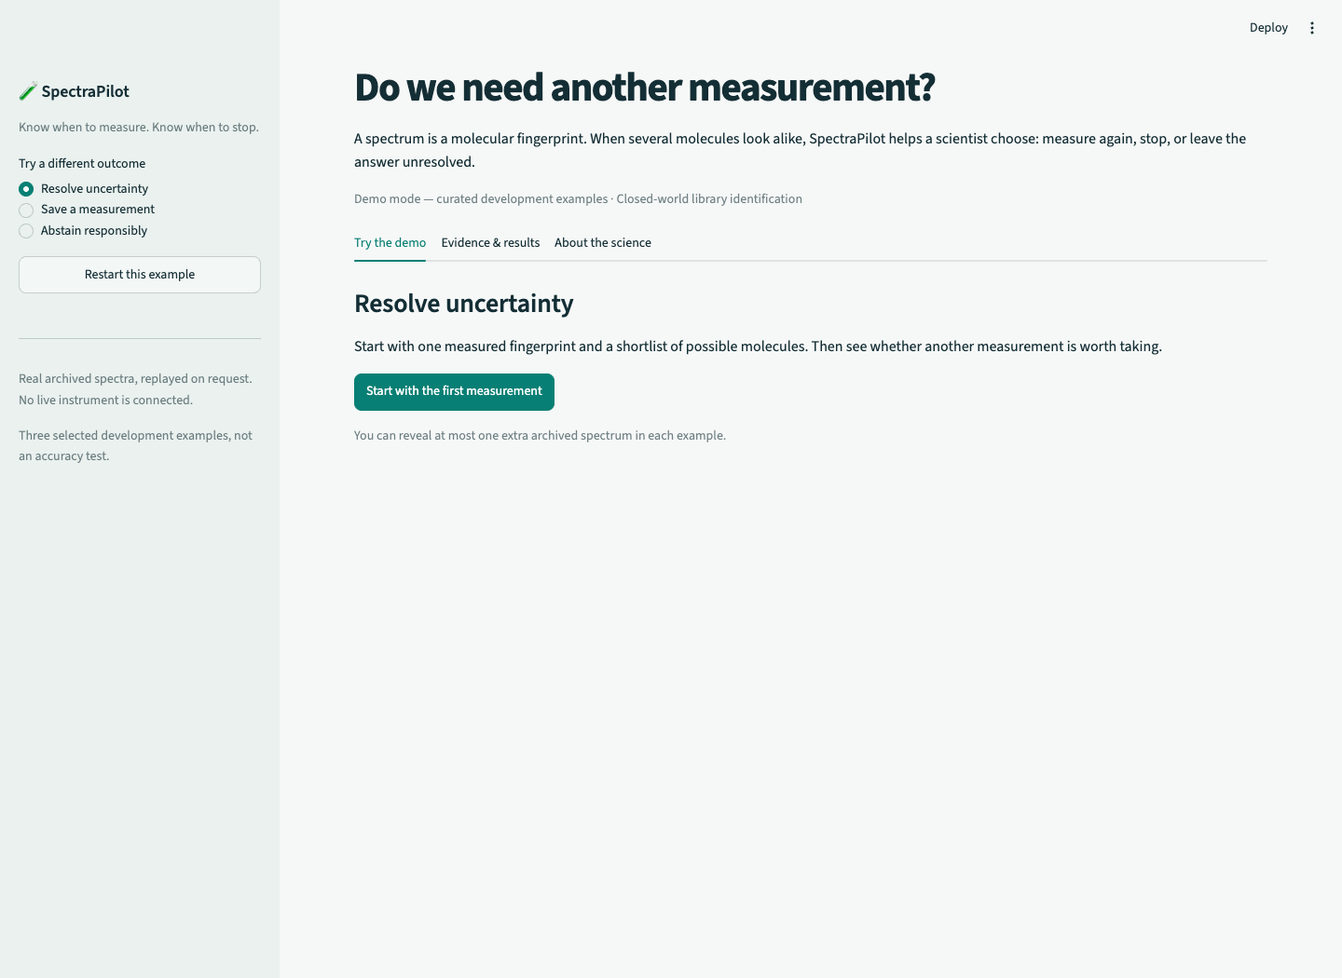
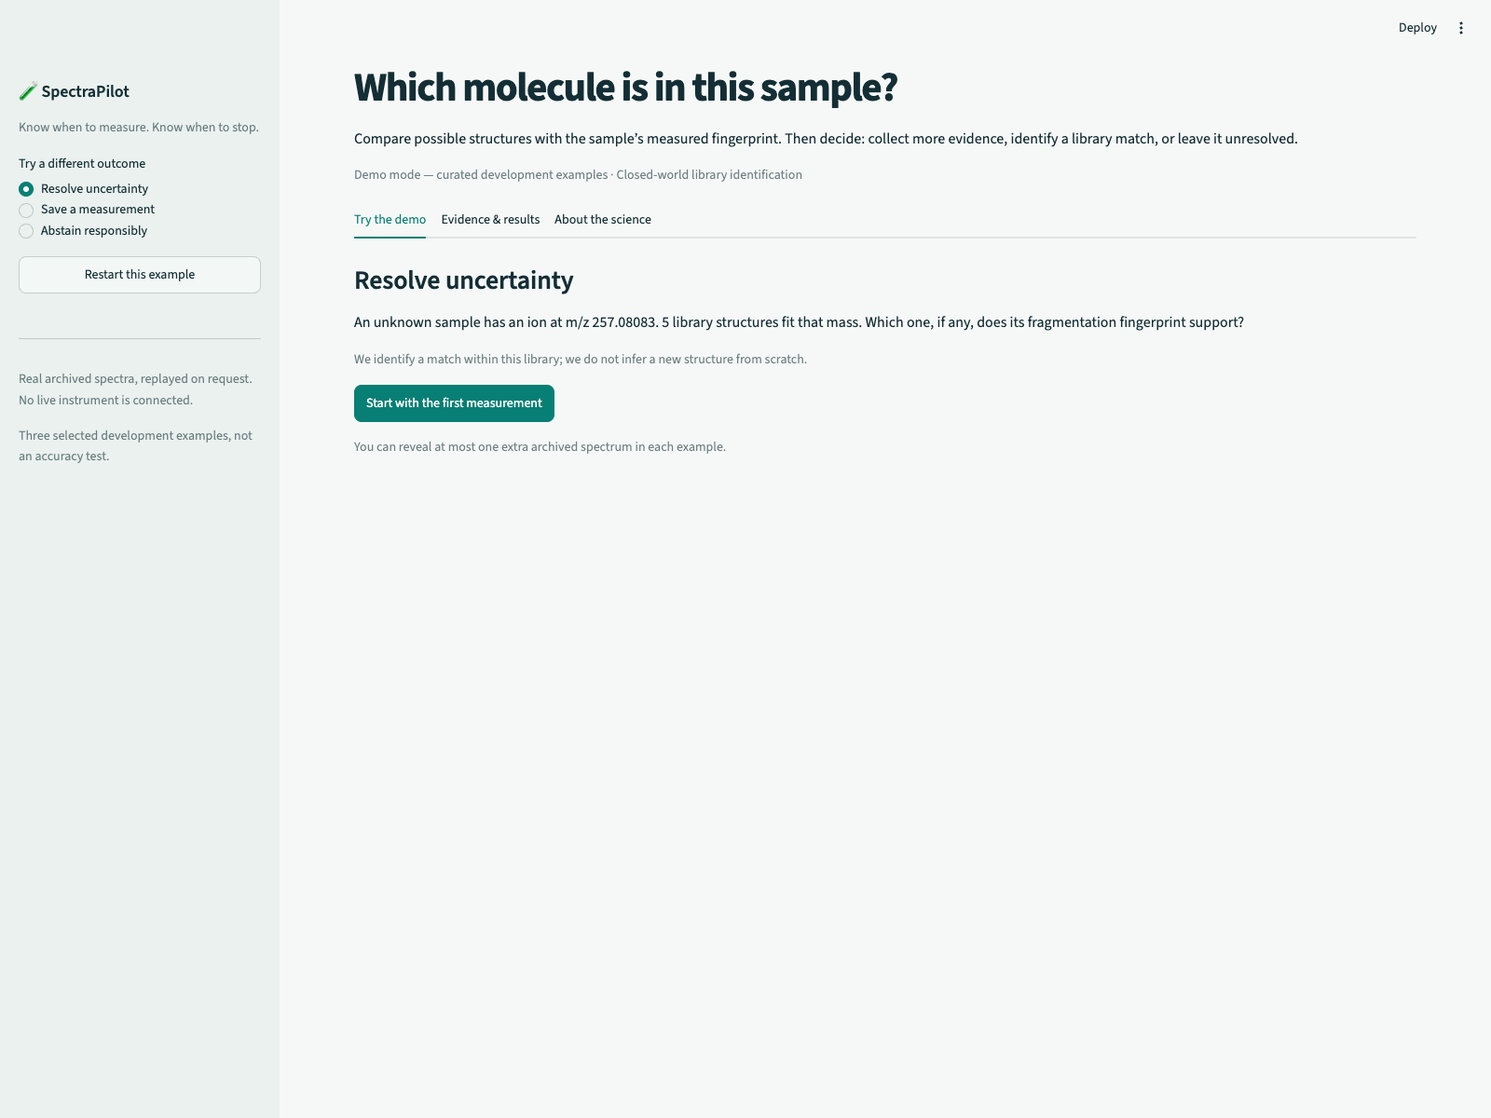
show named candidate structures and why their fingerprints fit

diff --git a/app/spectrapilot_demo.py b/app/spectrapilot_demo.py
@@ -5,10 +5,18 @@ from __future__ import annotations
 import json
 
 import pandas as pd
+from html import escape
+from pathlib import Path
+
 import plotly.graph_objects as go
+from plotly.subplots import make_subplots
 import streamlit as st
 
 from spectrapilot.demo import DemoService
+from spectrapilot.presentation import compare_observed_candidates
+
+ASSETS = Path(__file__).resolve().parent / "assets/structures"
+STRUCTURES = json.loads((ASSETS / "manifest.json").read_text())["candidates"]
 
 st.set_page_config(page_title="SpectraPilot · Measurement triage", page_icon="🧪", layout="wide")
 st.markdown(
@@ -43,6 +51,8 @@ def reset():
         "spectrum_action",
         "peak_index",
         "edit_action",
+        "compare_action",
+        "compare_other",
     ):
         st.session_state.pop(key, None)
 
@@ -64,6 +74,8 @@ def measure(case_id, action):
         f"Archived {action} measurement revealed",
     )
     st.session_state.spectrum_action = action
+    st.session_state.compare_action = action
+    st.session_state.pop("compare_other", None)
 
 
 def exclude(case_id, action, index, reason):
@@ -126,6 +138,84 @@ def spectrum_plot(observation, excluded):
     return figure
 
 
+def candidate_title(item, names):
+    label = names[item["candidate_id"]]
+    if item["name"] == item["candidate_id"]:
+        family = STRUCTURES[item["candidate_id"]].get("family", "Library structure")
+        return f"{family} · {label}"
+    return f"{item['name']} · {label}"
+
+
+def structure_gallery(candidates, names, leader):
+    for offset in range(0, len(candidates), 5):
+        group = candidates[offset : offset + 5]
+        for column, item in zip(st.columns(len(group)), group):
+            with column:
+                st.markdown(f"**{names[item['candidate_id']]}**")
+                info = STRUCTURES[item["candidate_id"]]
+                st.image(str(ASSETS / info["file"]), width="stretch")
+                title = candidate_title(item, names).split(" · ")[0]
+                st.markdown(
+                    f'<div style="font-size:13px;line-height:1.35;min-height:38px">{escape(title)}</div>',
+                    unsafe_allow_html=True,
+                )
+                if info.get("description"):
+                    st.caption(
+                        "OH groups: " + " + ".join(str(count) for count in info["ring_oh_counts"])
+                    )
+                if item["name"] == item["candidate_id"]:
+                    st.caption("No common name supplied.")
+                if item["candidate_id"] == leader:
+                    st.caption("↑ Leading fingerprint match")
+
+
+def fingerprint_comparison(data, names):
+    labels = [f"Sample — measured {data['action']}"]
+    for row in data["candidates"]:
+        source = (
+            "CID60 library proxy"
+            if row["reference_source"] == "reference_cid60"
+            else "predicted reference"
+        )
+        labels.append(f"{names[row['candidate_id']]} — {source}")
+    fig = make_subplots(
+        rows=3, cols=1, shared_xaxes=True, vertical_spacing=0.13, subplot_titles=labels
+    )
+    spectra = [(data["observed_mz"], data["observed_intensity"])] + [
+        (row["reference_mz"], row["reference_intensity"]) for row in data["candidates"]
+    ]
+    for index, ((mz, intensity), color) in enumerate(
+        zip(spectra, ["#163c46", "#087f74", "#b5752a"]), 1
+    ):
+        x, y = [], []
+        for mass, height in zip(mz, intensity):
+            x.extend([mass, mass, None])
+            y.extend([0, height, None])
+        fig.add_trace(
+            go.Scatter(
+                x=x,
+                y=y,
+                mode="lines",
+                line=dict(color=color, width=2),
+                hovertemplate="m/z %{x:.4f}<br>Relative intensity %{y:.2f}<extra></extra>",
+            ),
+            row=index,
+            col=1,
+        )
+    for mass, _ in data["strongest_fragments"]:
+        fig.add_vline(x=mass, line_color="#becdca", line_dash="dot", line_width=1)
+    fig.update_layout(
+        height=390,
+        showlegend=False,
+        margin=dict(l=15, r=15, t=35, b=30),
+        paper_bgcolor="#f6f8f7",
+        plot_bgcolor="white",
+    )
+    fig.update_yaxes(range=[0, 1.08], showticklabels=False, gridcolor="#eef3f1")
+    fig.update_xaxes(title_text="Fragment mass-to-charge (m/z)", row=3, col=1)
+    return fig
+
+
 pilot = service()
 examples = pilot.manifest["cases"]
 with st.sidebar:
@@ -144,10 +234,10 @@ with st.sidebar:
     st.caption("Real archived spectra, replayed on request. No live instrument is connected.")
     st.caption("Three selected development examples, not an accuracy test.")
 
-st.title("Do we need another measurement?")
+st.title("Which molecule is in this sample?")
 st.write(
-    "A spectrum is a molecular fingerprint. When several molecules look alike, "
-    "SpectraPilot helps a scientist choose: measure again, stop, or leave the answer unresolved."
+    "Compare possible structures with the sample’s measured fingerprint. "
+    "Then decide: collect more evidence, identify a library match, or leave it unresolved."
 )
 st.caption("Demo mode — curated development examples · Closed-world library identification")
 
@@ -157,9 +247,13 @@ investigation_tab, results_tab, scope_tab = st.tabs(
 with investigation_tab:
     if not st.session_state.get("active_case"):
         st.subheader(example["title"])
+        intro = pilot.case_summary(example["case_id"])
         st.write(
-            "Start with one measured fingerprint and a shortlist of possible molecules. "
-            "Then see whether another measurement is worth taking."
+            f"An unknown sample has an ion at m/z {intro['precursor_mz']:.5f}. "
+            f"{intro['n_candidates']} library structures fit that mass. Which one, if any, does its fragmentation fingerprint support?"
+        )
+        st.caption(
+            "We identify a match within this library; we do not infer a new structure from scratch."
         )
         st.button(
             "Start with the first measurement",
@@ -184,8 +278,32 @@ with investigation_tab:
             candidate: f"Candidate {chr(65 + index)}"
             for index, candidate in enumerate(sorted(item["candidate_id"] for item in candidates))
         }
-        lead = names[candidates[0]["candidate_id"]]
-        initial_lead = names[baseline_candidates[0]["candidate_id"]]
+        by_id = {item["candidate_id"]: item for item in candidates}
+        lead = candidate_title(candidates[0], names)
+        initial_lead = candidate_title(baseline_candidates[0], names)
+        formulas = sorted({item["formula"] for item in candidates})
+        st.markdown(
+            "**The question: which of these structures produced the sample’s fingerprint?**"
+        )
+        st.write(
+            f"The measured intact ion is at **m/z {case['precursor_mz']:.5f}**. "
+            f"All {case['n_candidates']} candidates fit its mass within 10 ppm. "
+            + (
+                f"They share formula **{formulas[0]}**, so mass alone cannot distinguish their atom arrangements."
+                if len(formulas) == 1
+                else "Mass alone does not choose among them."
+            )
+        )
+        stable_candidates = sorted(candidates, key=lambda item: item["candidate_id"])
+        structure_gallery(stable_candidates, names, candidates[0]["candidate_id"])
+        if all(
+            STRUCTURES[item["candidate_id"]].get("family") == "Trihydroxychalcone"
+            for item in candidates
+        ):
+            st.caption(
+                "Compare the red oxygen / OH groups: these structures differ in where those groups sit on the two rings. That structural difference is real; its fragmentation mechanism is not assigned here."
+            )
+        st.divider()
         initial_decision = st.session_state.baseline["decision_if_stopped"]
         enough = preview == "IDENTIFIED"
         measured_extra = len(observations) > 1
@@ -338,6 +456,75 @@ with investigation_tab:
                 key="download_md",
                 width="stretch",
             )
+
+        st.subheader("Why does a structure have evidence?")
+        st.write(
+            "We compare the measured fragment peaks with a reference fingerprint associated with each structure. "
+            "Matching peak masses and relative heights support a candidate; a shared mass alone is not proof."
+        )
+        first_id = candidates[0]["candidate_id"]
+        preferred_other = (
+            baseline_candidates[0]["candidate_id"]
+            if measured_extra
+            else candidates[1]["candidate_id"]
+        )
+        others = [item["candidate_id"] for item in candidates if item["candidate_id"] != first_id]
+        if preferred_other not in others:
+            preferred_other = others[0]
+        action = st.selectbox(
+            "Compare a measurement already collected",
+            list(observations),
+            index=len(observations) - 1,
+            key="compare_action",
+        )
+        other_id = st.selectbox(
+            "Compare the leading match with",
+            others,
+            index=others.index(preferred_other),
+            format_func=lambda cid: candidate_title(by_id[cid], names),
+            key=f"compare_other_{case_id}_{first_id}_{len(observations)}",
+        )
+        comparison = compare_observed_candidates(pilot, case_id, action, [first_id, other_id])
+        a, b = comparison["candidates"]
+        st.write(
+            f"**{candidate_title(by_id[first_id], names)}** vs **{candidate_title(by_id[other_id], names)}**"
+        )
+        st.write(
+            f"At {action}, whole-fingerprint similarity is **{a['cosine']:.2f} for {names[a['candidate_id']]}** "
+            f"and **{b['cosine']:.2f} for {names[b['candidate_id']]}**. "
+            "Higher means peak positions and relative heights fit better; it is not an identity probability."
+        )
+        if not enough:
+            st.caption(
+                "The collected evidence still does not meet the identification rule, even though one candidate ranks first."
+            )
+        st.plotly_chart(
+            fingerprint_comparison(comparison, names), width="stretch", key="fingerprint_compare"
+        )
+        peak_rows = []
+        for mass, intensity in comparison["strongest_fragments"]:
+            row = {"Observed fragment m/z": f"{mass:.4f}"}
+            for candidate in comparison["candidates"]:
+                match = next(
+                    (pair for pair in candidate["matches"] if pair["observed_mz"] == mass), None
+                )
+                row[names[candidate["candidate_id"]]] = (
+                    f"Matches {match['template_mz']:.4f}" if match else "No matching peak"
+                )
+            peak_rows.append(row)
+        if peak_rows:
+            st.dataframe(pd.DataFrame(peak_rows), hide_index=True, width="stretch")
+        if any(row["reference_source"] == "reference_cid60" for row in comparison["candidates"]):
+            st.caption(
+                "Reference limitation: the CID40 comparison uses an allowed CID60 library spectrum as a proxy. The energies differ; it is not a measured CID40 reference for that candidate."
+            )
+        else:
+            st.caption(
+                "These are predicted reference fingerprints from training structure-neighbours, not experimental spectra of each candidate at this energy."
+            )
+        st.caption(
+            f"Rows show the three strongest measured fragment peaks, excluding the intact ion; match tolerance ±{comparison['tolerance_da']:.2f} Da. The score uses the whole spectrum, including intensity agreement. Matching a peak does not prove a particular bond break or fragment structure. The final ranking combines all collected measurements."
+        )
 
         st.divider()
         with st.expander("Inspect the scientific evidence"):

diff --git a/README.md b/README.md
@@ -6,7 +6,7 @@
 
 ![SpectraPilot investigation](docs/screenshots/02-observe.png)
 
-**Observe → choose or stop → report.** Read the current answer and recommended action; collect one more spectrum or stop; see what changed and export the outcome. Spectra, candidate scores and audit details are available in expandable sections. You can exclude an observed peak with a reason and undo the intervention.
+**Observe → choose or stop → report.** See the actual candidate structures and the sample’s mass; compare their measured/reference fingerprints; collect one more spectrum or stop; see what changed and export the outcome. Detailed scores and audit controls remain expandable. You can exclude an observed peak with a reason and undo the intervention.
 
 **Measured result:** In an exploratory scaffold-grouped training cross-validation study of 277 ambiguous molecules, the library-assisted planner used **243 optional acquisitions versus 277** for always-CID40 (12.3% fewer), with **156 versus 157 accepted-correct identifications and 15 accepted errors for each**. This is a tradeoff, not evidence of equivalent accuracy. [Generated scientific report](reports/spectrapilot/train_stage1_reference.md).
 
@@ -24,11 +24,11 @@ make demo
 
 Open **http://127.0.0.1:8502**. No full dataset, private oracle, `make fetch-data`, or `make prepare` is needed. The small licensed bundle is committed under [`data/demo/`](data/demo/README.md). Installation time depends on the network; subsequent startup is one command.
 
-- **Resolve uncertainty:** the leading candidate changes after CID40 and the rule accepts an identification.
+- **Resolve uncertainty:** five structures share formula C15H12O4 but differ in OH positions. CID20 gives similar fingerprint fits. After CID40, Candidate C’s CID60 reference proxy matches better than the initial leader’s (cosine 0.57 vs 0.04); the combined rule supports it. The proxy energy mismatch is explicitly shown.
 - **Save a measurement:** the planner recommends stopping after CID20.
 - **Abstain responsibly:** one additional spectrum still leaves ambiguity.
 
-Run `make demo-verify` for the 11 automated demo checks. `make demo-api` starts the optional API on port 8001; `/health` reports demo mode. The UI uses the service directly and does not need that API process.
+Run `make demo-verify` for the 14 automated demo and evidence-display checks. `make demo-api` starts the optional API on port 8001; `/health` reports demo mode. The UI uses the service directly and does not need that API process.
 
 ## Why it matters
 
@@ -63,7 +63,7 @@ No benefit from adaptive CID versus EAD selection has been established: the stud
 - [Three-minute script and questions](docs/JUDGE_DEMO.md)
 - [Reproducibility and provenance](docs/DEMO_REPRODUCIBILITY.md)
 - [Readiness checklist](HACKATHON_READINESS.md)
-- Screens: [start](docs/screenshots/01-start.png), [observe](docs/screenshots/02-observe.png), [measure](docs/screenshots/03-measure.png), [export](docs/screenshots/04-report.png), [stop](docs/screenshots/05-stop.png), [abstain](docs/screenshots/06-abstain.png), [results](docs/screenshots/07-results.png)
+- Screens: [start](docs/screenshots/01-start.png), [observe](docs/screenshots/02-observe.png), [measure](docs/screenshots/03-measure.png), [export](docs/screenshots/04-report.png), [stop](docs/screenshots/05-stop.png), [abstain](docs/screenshots/06-abstain.png), [results](docs/screenshots/07-results.png), [initial fingerprint evidence](docs/screenshots/08-initial-evidence.png), [additional fingerprint evidence](docs/screenshots/09-additional-evidence.png)
 
 ## Research workflow
 

diff --git a/HACKATHON_READINESS.md b/HACKATHON_READINESS.md
@@ -16,7 +16,7 @@
 - [x] Judge README, screenshots, three-minute script, FAQ and reproducibility commands.
 - [x] Existing `reports/`, `configs/` and `data/multims2/` unchanged relative to `5fb4d99`.
 
-## Exact verification results
+## Original clean-clone verification results
 
 Rehearsal date: 2026-10-22. A temporary **local clean Git clone** was created from this branch, without private research oracles or untracked files. Network installation used hash verification against the committed lockfiles. The working directory's user data and any existing service on port 8501 were preserved.
 
@@ -60,9 +60,15 @@ Local UI: **http://127.0.0.1:8502**. This is not a hosted public demo. Optional 
 
 ## Presentation simplification
 
-The default screen now focuses on **What do we know? → What should we do? → What changed?**. The main action is **Collect one more spectrum** or **Finish & create report**. A before/after comparison explains resolution or continued uncertainty; the stop example states the optional measurement avoided. Technical spectra, scores, alternative actions, interventions and audit data are collapsed. Judge instructions and all seven screenshots were updated.
+The default screen now focuses on **What do we know? → What should we do? → What changed?**. The main action is **Collect one more spectrum** or **Finish & create report**. A before/after comparison explains resolution or continued uncertainty; the stop example states the optional measurement avoided. Named structures and an acquired-spectrum fingerprint comparison are now visible; detailed scores, alternative actions, interventions and audit controls remain collapsed. Judge instructions and screenshots were updated.
 
-Verification after this UI change: 11 demo tests passed; Ruff formatting/lint checks passed; headless Chrome completed all three outcomes and both report downloads, and confirmed scientific evidence is initially collapsed. The scientific model, configurations, data bundle and generated scientific reports were unchanged.
+The earlier simplified layout passed 11 demo tests. The subsequent structure/evidence update passed **14 demo tests on Python 3.12 (2.38 s) and Python 3.11 (3.29 s)**, and **103 full-suite tests (10.25 s)** plus import/config checks in the locked research environment. Ruff formatting/lint checks passed. Headless Chrome completed all three outcomes and both report downloads. The scientific model, configurations, data bundle and generated scientific reports were unchanged.
+
+### Structure and evidence explanation
+
+All 15 public candidate structures are rendered from SMILES and committed as SVGs, with source/output hashes and the RDKit build version. No RDKit is required at runtime. Chemical names are shown where provided; unnamed source records remain explicitly unnamed. For the resolve case, OH positions distinguish five structures that share formula C15H12O4. A visible comparison shows measured peaks against two candidate references, per-observation cosine similarity, and matches for the three strongest non-precursor peaks. Exclusions and undo are reflected in the display. Unacquired actions are rejected; the explanation performs no measurement and cannot access truth.
+
+The CID40/CID60 mismatch and the distinction between a fingerprint match and a bond-level fragment assignment are disclosed. New screenshots show [initial evidence](docs/screenshots/08-initial-evidence.png) and [additional evidence](docs/screenshots/09-additional-evidence.png).
 
 ## Supported claims
 

diff --git a/docs/JUDGE_DEMO.md b/docs/JUDGE_DEMO.md
@@ -5,15 +5,15 @@ Preparation: `make demo`, open http://127.0.0.1:8502. Select **Resolve uncertain
 | Time | Action and narration |
 |---|---|
 | 0:00–0:20 | “Mass spectrometers can collect more spectra, but every extra acquisition costs time. Similar library candidates should not become a confident answer without sufficient evidence.” |
-| 0:20–0:50 | Click **Start with the first measurement**. Point to **What do we know?**: the leading match is not yet supported as an identification. Only the initial archived spectrum has been acquired. |
+| 0:20–0:50 | Click **Start with the first measurement**. Show the five actual structures: all share C15H12O4 and the same precursor mass, but their OH positions differ. We are asking which library structure produced this fingerprint. Point to **What do we know?**: the leading match is not yet supported as an identification. Only the initial archived spectrum has been acquired. |
 | 0:50–1:10 | Point to **What should we do?**: collect one more spectrum. Explain that an extra measurement costs instrument time, so it needs a reason. |
-| 1:10–1:40 | Click **Collect one more spectrum**. Show **What changed?**: unresolved after the first measurement, identification supported after the extra one. The leading candidate also changes. If asked, expand **Inspect the scientific evidence** to show the actual spectrum. |
+| 1:10–1:40 | Click **Collect one more spectrum**. Show **What changed?**: unresolved after the first measurement, identification supported after the extra one. The leading candidate also changes. Scroll to **Why does a structure have evidence?**: sample, Candidate C reference, and initial-leader reference share a mass axis. Point to 0.57 versus 0.04 cosine similarity. Disclose that these CID40 comparisons use CID60 reference proxies. Matching a peak does not establish a bond-breaking mechanism. |
 | 1:40–2:00 | Optional: expand the observed-peak intervention, exclude one peak with a reason, show changed evidence, then undo. Do not claim an arbitrary excluded peak is chemically invalid. |
 | 2:00–2:20 | Click **Finish & create report**, then download JSON and Markdown under **Save the outcome**. Curated source identity is an explicit post-stop check. |
 | 2:20–2:40 | Select **Save a measurement**, start and show stop. Select **Abstain responsibly**, start, measure CID40 and stop: ambiguity remains. |
 | 2:40–3:00 | Open **Evidence & results**. “In exploratory training CV, 243 versus 277 optional scans gave 156 versus 157 accepted-correct identifications, with 15 errors each. This is closed-world triage; we have not established a general accuracy advantage or live-instrument performance.” |
 
-For a simple demonstration, leave scientific evidence, interventions and audit details collapsed. Skip the peak intervention unless a judge asks about scientist control. Never substitute demo outcomes for aggregate evaluation.
+For a simple demonstration, show the structures and the visible fingerprint comparison; leave detailed scores, interventions and audit controls collapsed. Skip the peak intervention unless a judge asks about scientist control. Never substitute demo outcomes for aggregate evaluation.
 
 ## Concise answers
 

diff --git a/docs/DEMO_REPRODUCIBILITY.md b/docs/DEMO_REPRODUCIBILITY.md
@@ -44,3 +44,13 @@ The underlying scientific reports are existing generated artifacts and are not r
 MultiMS2 is pinned in `configs/multims2.yaml` and the bundle manifest to source commit `9219d19d8ef370a1ef0eadf0594b7dfe5e2bf83a`. The upstream data notice is retained in `data/demo/DATA_LICENSE.txt`; per-query record IDs, USIs, scan IDs and source attribution are retained in `data/demo/instrument/attribution.json`. Public reference donor/anchor provenance is in `data/demo/public/reference_provenance.json`. Code is MIT; MultiMS2 data is CC0-1.0. Historical MassBank data retains its individual record licenses. See `DATA_LICENSE.md`.
 
 Truth separation is an application boundary, not cryptographic secrecy. Local users can inspect the bundle. A curated source identity check never changes a decision that has already been stopped.
+
+## Structure and fingerprint display
+
+Committed SVG structures in `app/assets/structures/` are generated from the public candidate SMILES by `scripts/render_demo_structures.py`, using RDKit only at build time. Launching the demo needs no RDKit. The adjacent manifest records the source hash, each SVG hash, SMILES and RDKit version. OH-ring counts are derived from public connectivity; unnamed entries remain explicitly unnamed. Rebuild, if needed, with the research Python environment:
+
+```bash
+.research-venv/bin/python scripts/render_demo_structures.py
+```
+
+The visible fingerprint comparison reads only an already acquired observation and public references. It reapplies active peak exclusions and uses the existing scorer to reproduce per-observation peak matches and cosine similarity. It cannot collect a new measurement or select an unobserved spectrum. Whole-fingerprint similarity is distinct from the combined ranking, and matched peaks are not validated bond/fragment assignments.

diff --git a/DATA_LICENSE.md b/DATA_LICENSE.md
@@ -26,3 +26,5 @@ Keep those notices and attribution when redistributing records or adaptations;
 CC BY-SA adaptations retain their applicable share-alike terms. These MassBank
 records are not included in the new MultiMS2 demo bundle. Their licenses are
 not replaced by the code's MIT license or MultiMS2's CC0 notice.
+
+The demo's SVG structure drawings in `app/assets/structures/` are generated with RDKit from the same public CC0 candidate SMILES. Their manifest records input and output hashes. These are depictions of candidate connectivity, not inferred fragment structures or new experimental data.
